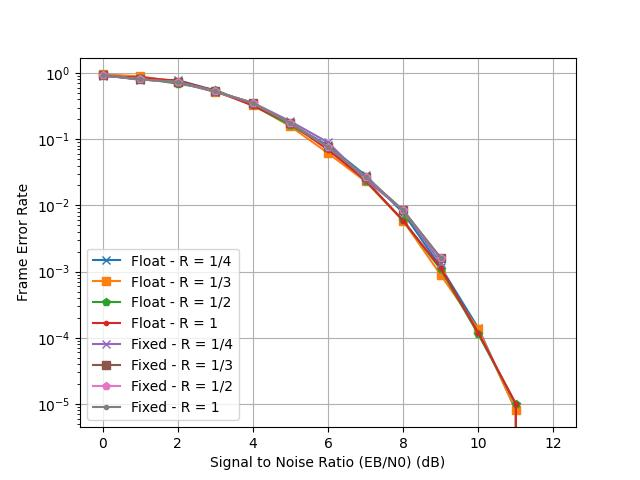
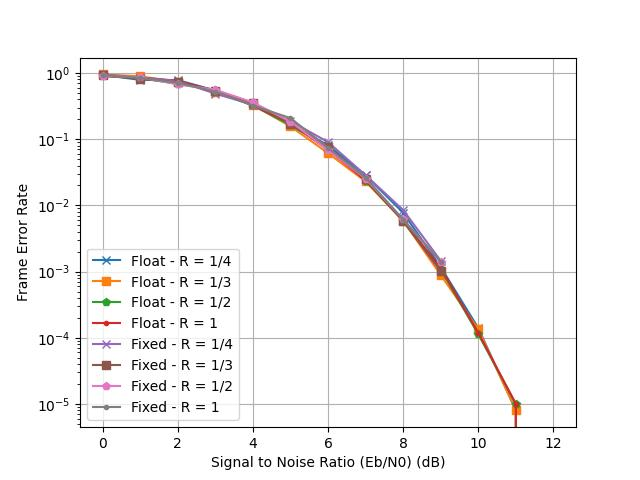
unfucking things

Changed region(s): [[0.1875, 0.1562, 0.7188, 0.5938], [0.3125, 0.9375, 0.6875, 1.0]]

diff --git a/Modulateur/graphs.py b/Modulateur/graphs.py
@@ -13,15 +13,15 @@ files = [("TP3/sim_2.csv", "Float - R = 1/4", "x-"),
          ("TP3/sim_4.csv", "Float - R = 1/2", "p-"),
          ("TP3/sim_5.csv", "Float - R = 1", ".-"),
          ("sim_2_2_5.csv", "Fixed - R = 1/4", "x-"),
-         ("sim_3_2_5.csv", "Fixed - R = 1/3", "s-"),
-         ("sim_4_2_5.csv", "Fixed - R = 1/2", "p-"),
-         ("sim_5_2_5.csv", "Fixed - R = 1", ".-")
+         ("sim_3_3_5.csv", "Fixed - R = 1/3", "s-"),
+         ("sim_4_4_5.csv", "Fixed - R = 1/2", "p-"),
+         ("sim_5_4_5.csv", "Fixed - R = 1", ".-")
 ]
 
-output = "graph3"
-xlabel = "Signal to Noise Ratio (Es/N0) (dB)"  
+output = "graph2"
+xlabel = "Signal to Noise Ratio (Eb/N0) (dB)"  
 ylabel = "Frame Error Rate"
-x = "Es/No"
+x = "Eb/No"
 y = "FER"
 
 for elem in files:

diff --git a/Modulateur/TP4_notes.md b/Modulateur/TP4_notes.md
@@ -21,7 +21,13 @@ S5F4
 
 -> s=8 on sature toujours
 
-## Sim2 & Sim4 & sim5
+## Sim2
 S5F2
 
-On constate qu'on a pas de perte quand on quantisize même sans répétitions (les 3 dernières courbes sont superposées).
+## Sim 3 & 4
+S5F3
+
+## Sim 5
+S5F4
+
+
